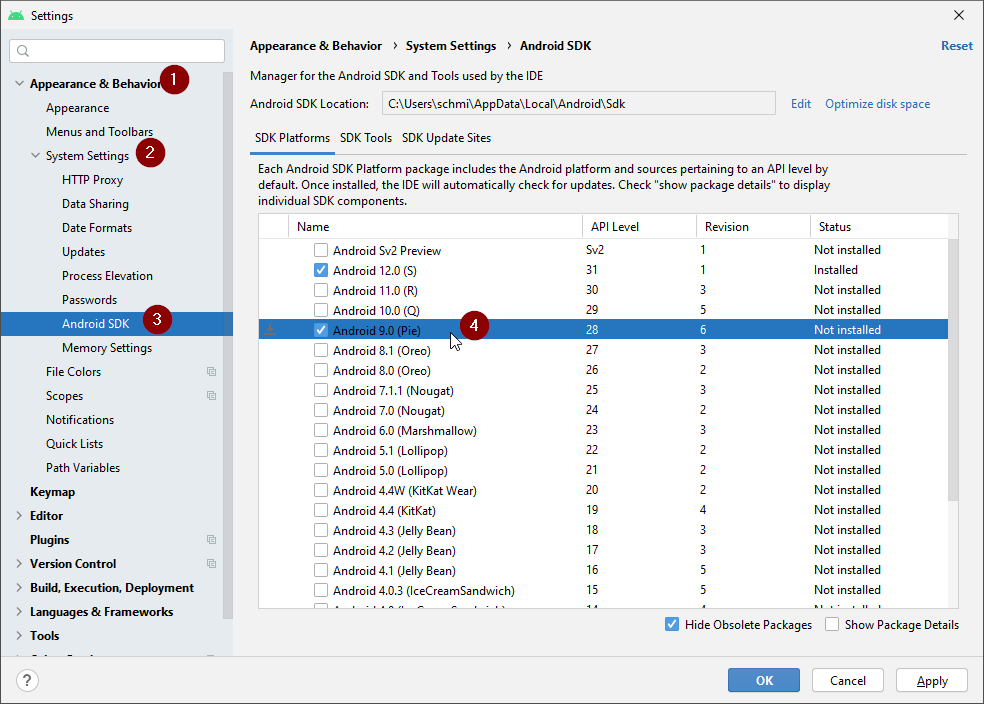
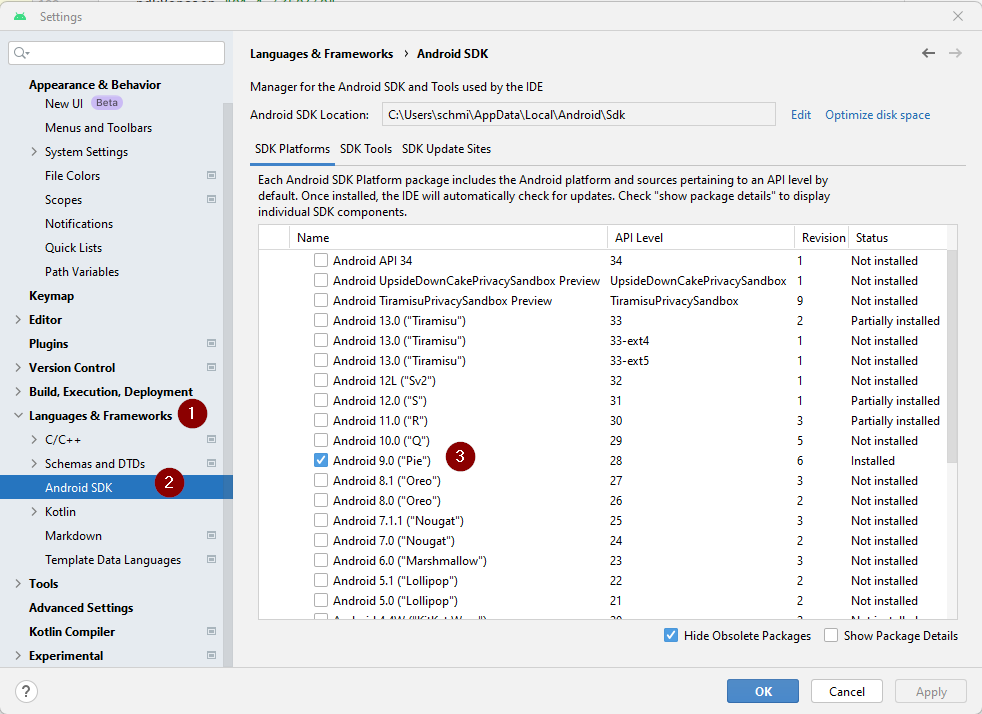
Update screenshot/instructions to new Android Studio Giraffe (due to several posts in AAPS Users group)

diff --git a/docs/EN/Installing-AndroidAPS/Building-APK.md b/docs/EN/Installing-AndroidAPS/Building-APK.md
@@ -224,9 +224,9 @@ On the Android Studio welcome screen click "Customize" (1) on the left and then 
 
    ![Open settings](../images/studioSetup/30_Settings.png)
 
-* Double-click on Appearance & Behaviour to open its submenu (1).
-* Double-click on System Settings (2) and select Android SDK (3).
-* Tick the box left of "Android 9.0 (Pie)" (4) (API Level 28).
+* Double-click on Languages & Frameworks to open its submenu (1).
+* Select Android SDK (2).
+* Tick the box left of "Android 9.0 (Pie)" (3) (API Level 28).
 
    ![SDK settings](../images/studioSetup/31_AndroidSDK.png)
 
